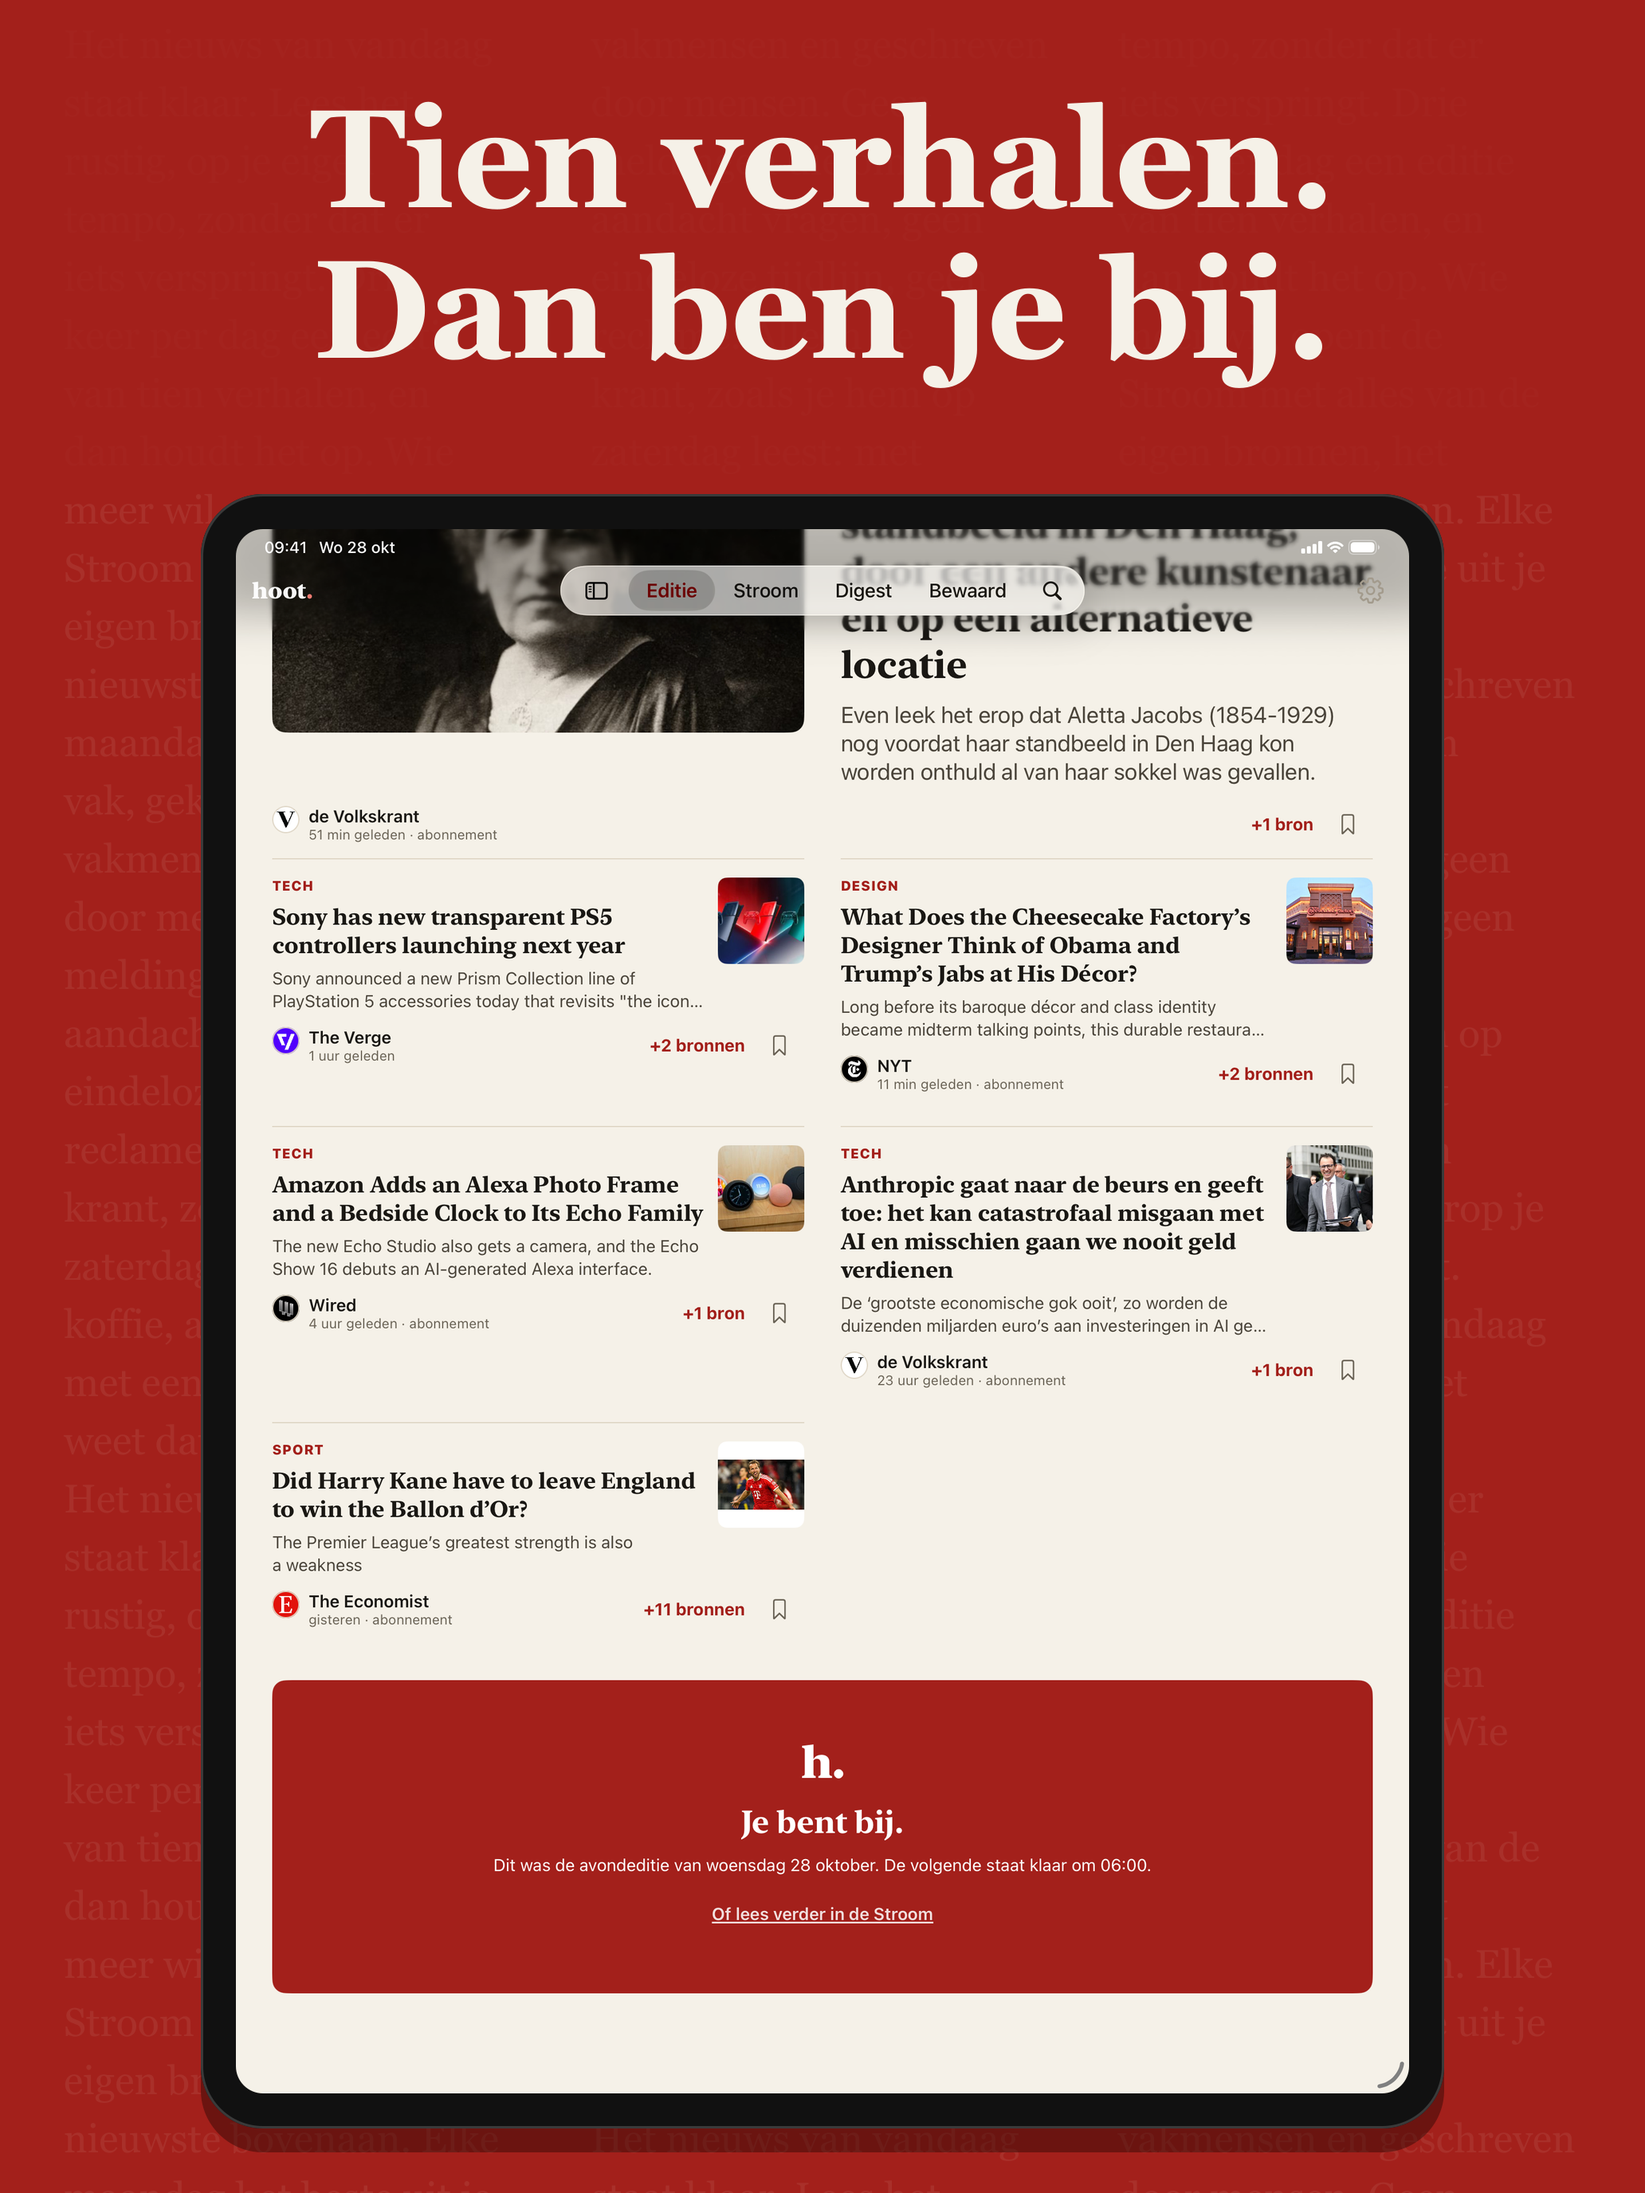
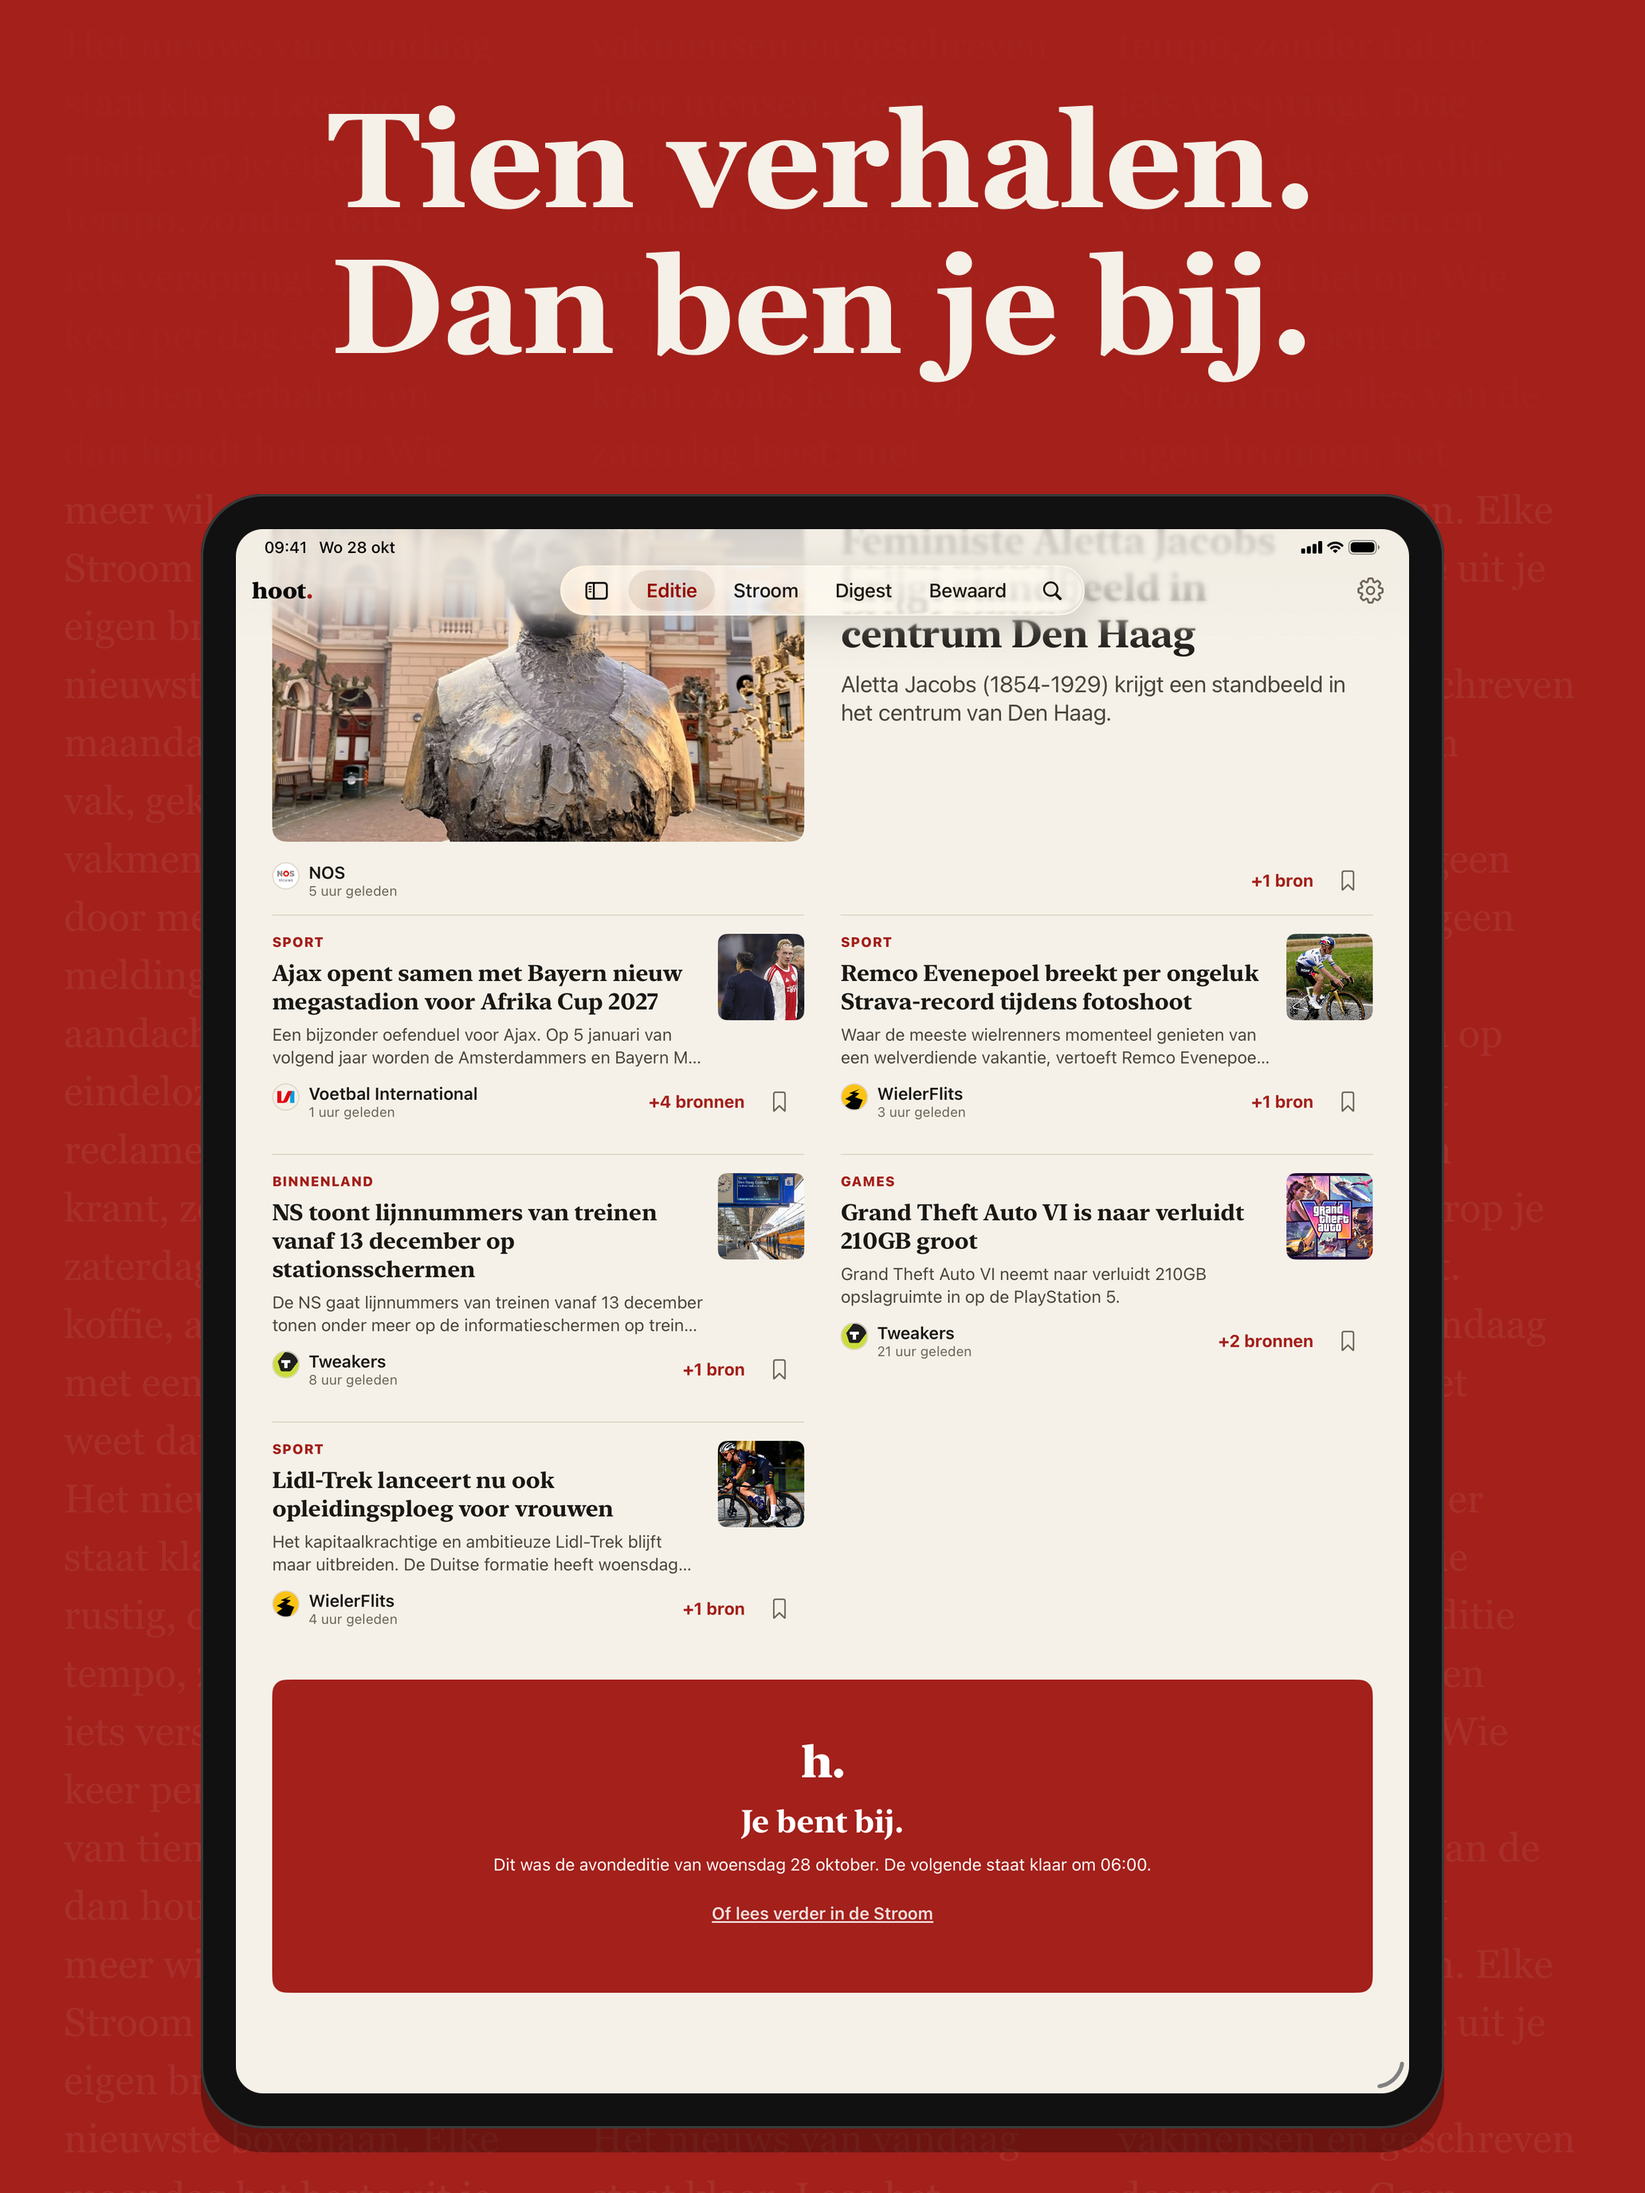
App Store-beelden: koppen overal even groot ('Alle kranten erbij'), gratis Nederlandse bronnen voorrang in de opname, positieve verhalen

diff --git a/ios/Hoot/Views/EditionView.swift b/ios/Hoot/Views/EditionView.swift
@@ -28,7 +28,11 @@ extension HootStore {
         // App Store-opnamen: gekozen echte verhalen (neutraal of positief) in de gegeven volgorde.
         if !DebugLaunch.feature.isEmpty {
             return DebugLaunch.feature.compactMap { f in
-                guard let story = storiesById[f.id], let item = story.leadId.flatMap({ itemsById[$0] }) ?? story.itemIds.lazy.compactMap({ self.itemsById[$0] }).first else { return nil }
+                // Gratis bronnen voorrang (Nederlandstalig eerst), anders het hoofdstuk van het verhaal.
+                guard let story = storiesById[f.id] else { return nil }
+                let all = ([story.leadId].compactMap { $0 } + story.itemIds).compactMap { itemsById[$0] }
+                let free = { (i: Item) in self.source(i.source).map { $0.paid != true } ?? false }
+                guard let item = all.first(where: { free($0) && self.source($0.source)?.lang == "nl" }) ?? all.first(where: free) ?? all.first else { return nil }
                 return EditionRowModel(id: story.id, item: item, story: story, label: f.label, desk: nil)
             }
         }
@@ -143,7 +147,7 @@ struct EditionView: View {
             .settingsButton()
             .task(id: store.editionRows.count) {
                 // `-HootScreen verhaal`: het eerste verhaal met de meeste bronnen, om te vergelijken.
-                if DebugLaunch.screen("verhaal"), path.isEmpty, let story = (DebugLaunch.feature.isEmpty ? nil : store.editionRows.first?.story) ?? store.editionRows.compactMap(\.story).max(by: { ($0.sourceCount ?? 1) < ($1.sourceCount ?? 1) }) { path.append(story) }
+                if DebugLaunch.screen("verhaal"), path.isEmpty, let story = store.editionRows.compactMap(\.story).max(by: { ($0.sourceCount ?? 1) < ($1.sourceCount ?? 1) }) { path.append(story) }
             }
         }
     }
